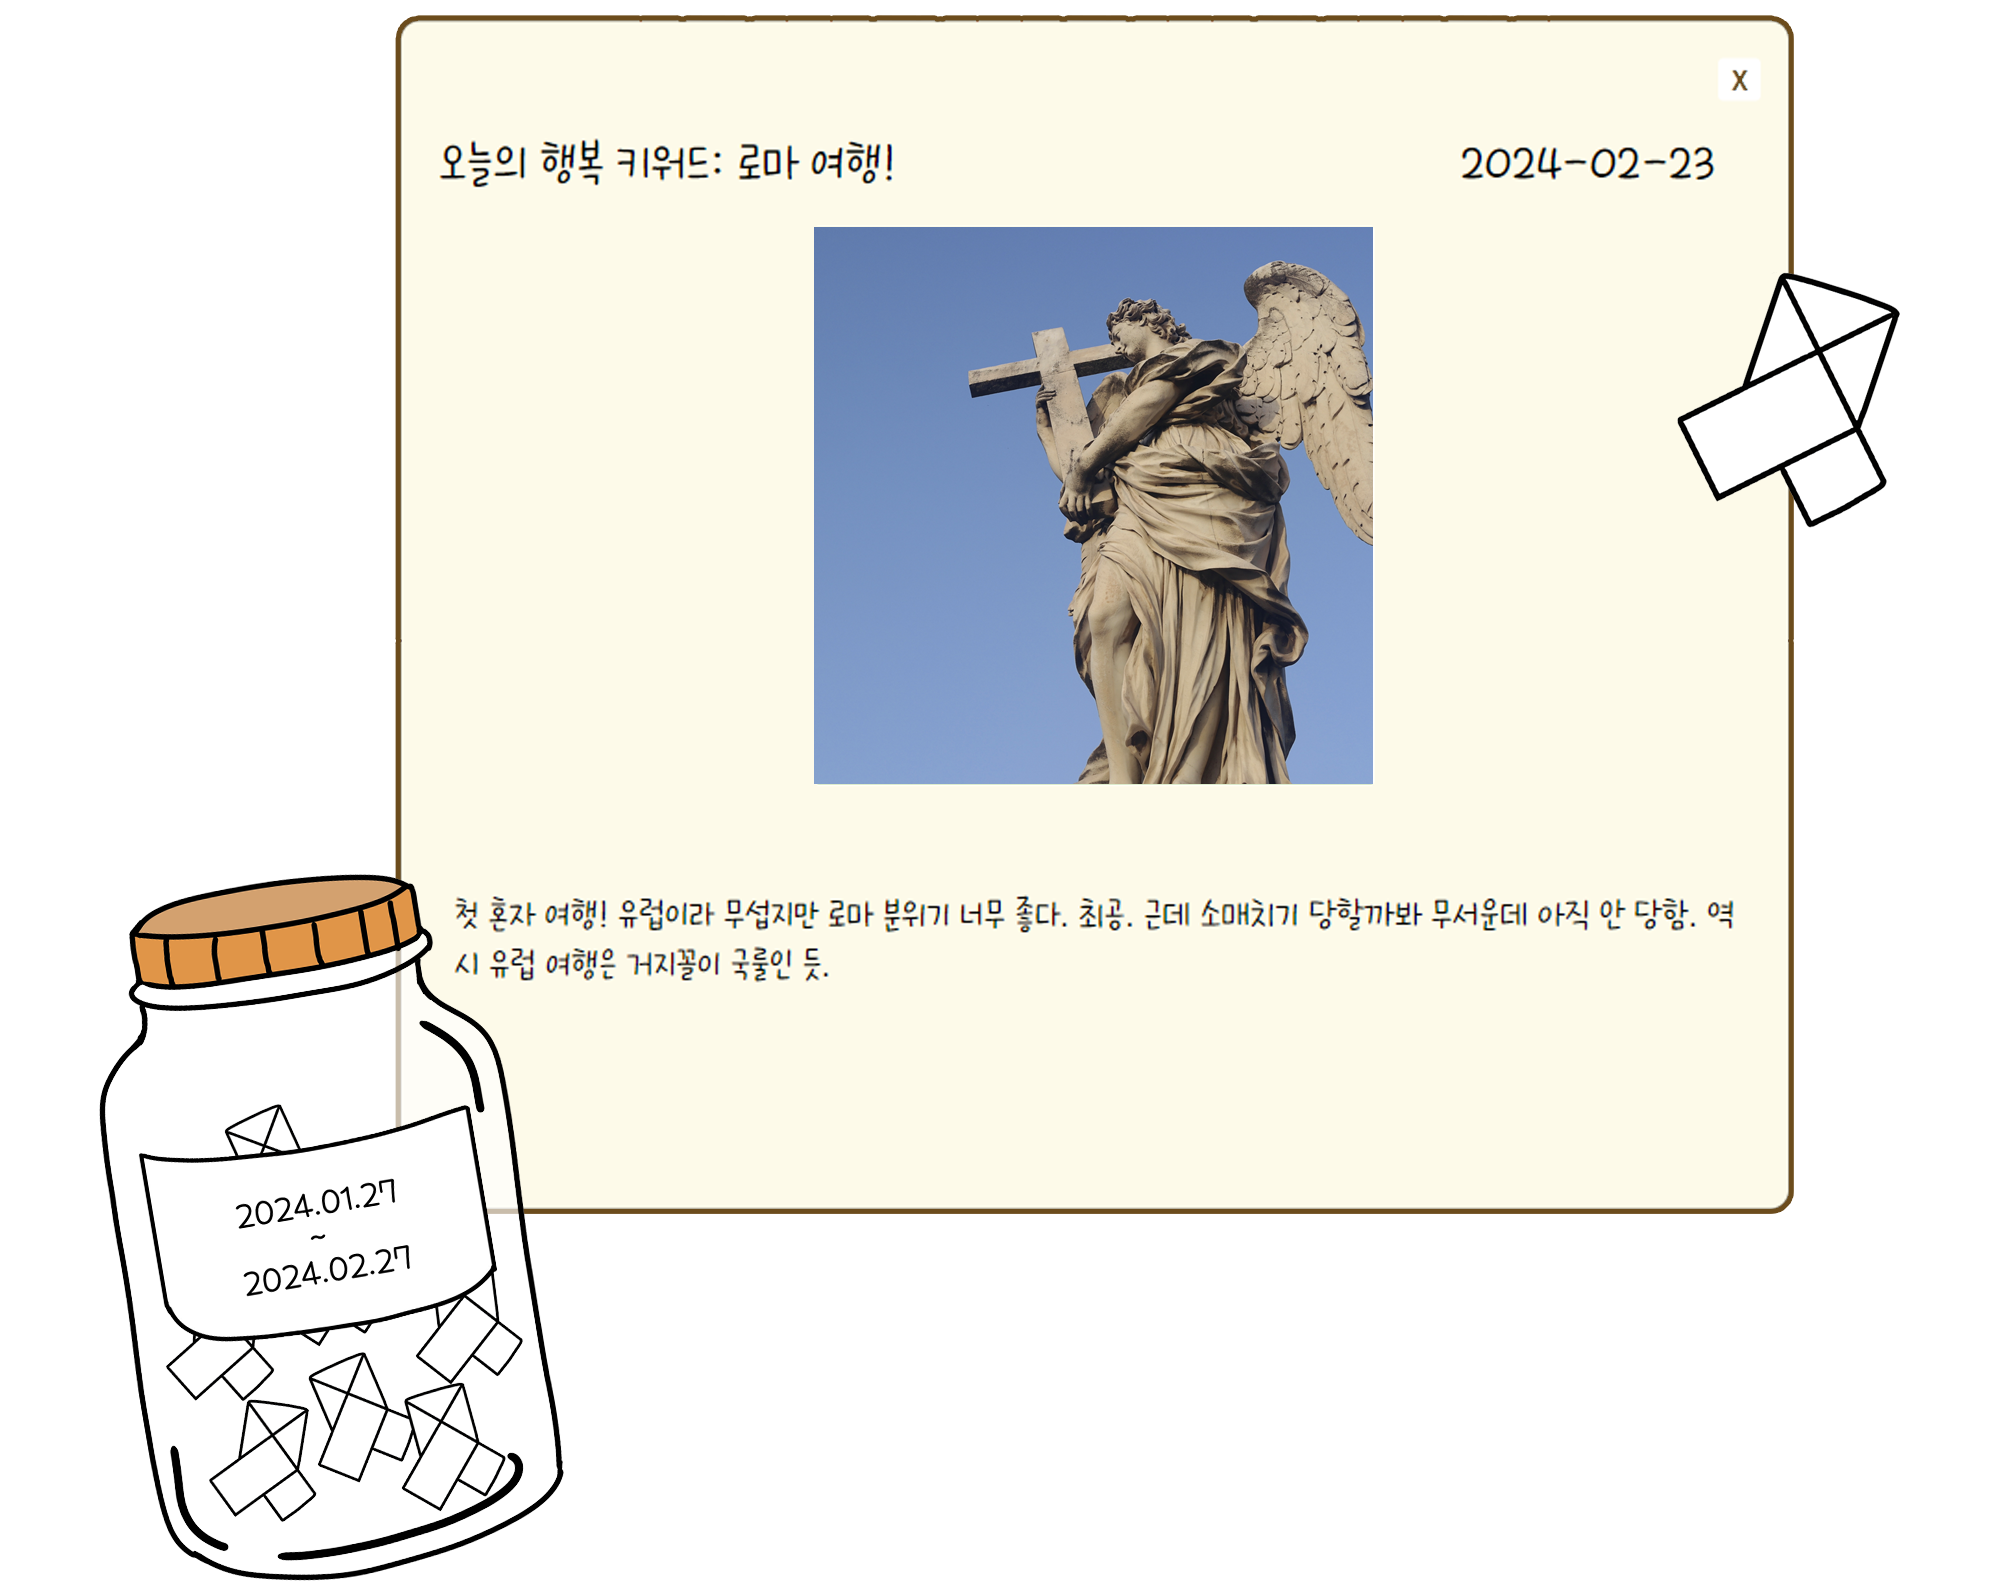
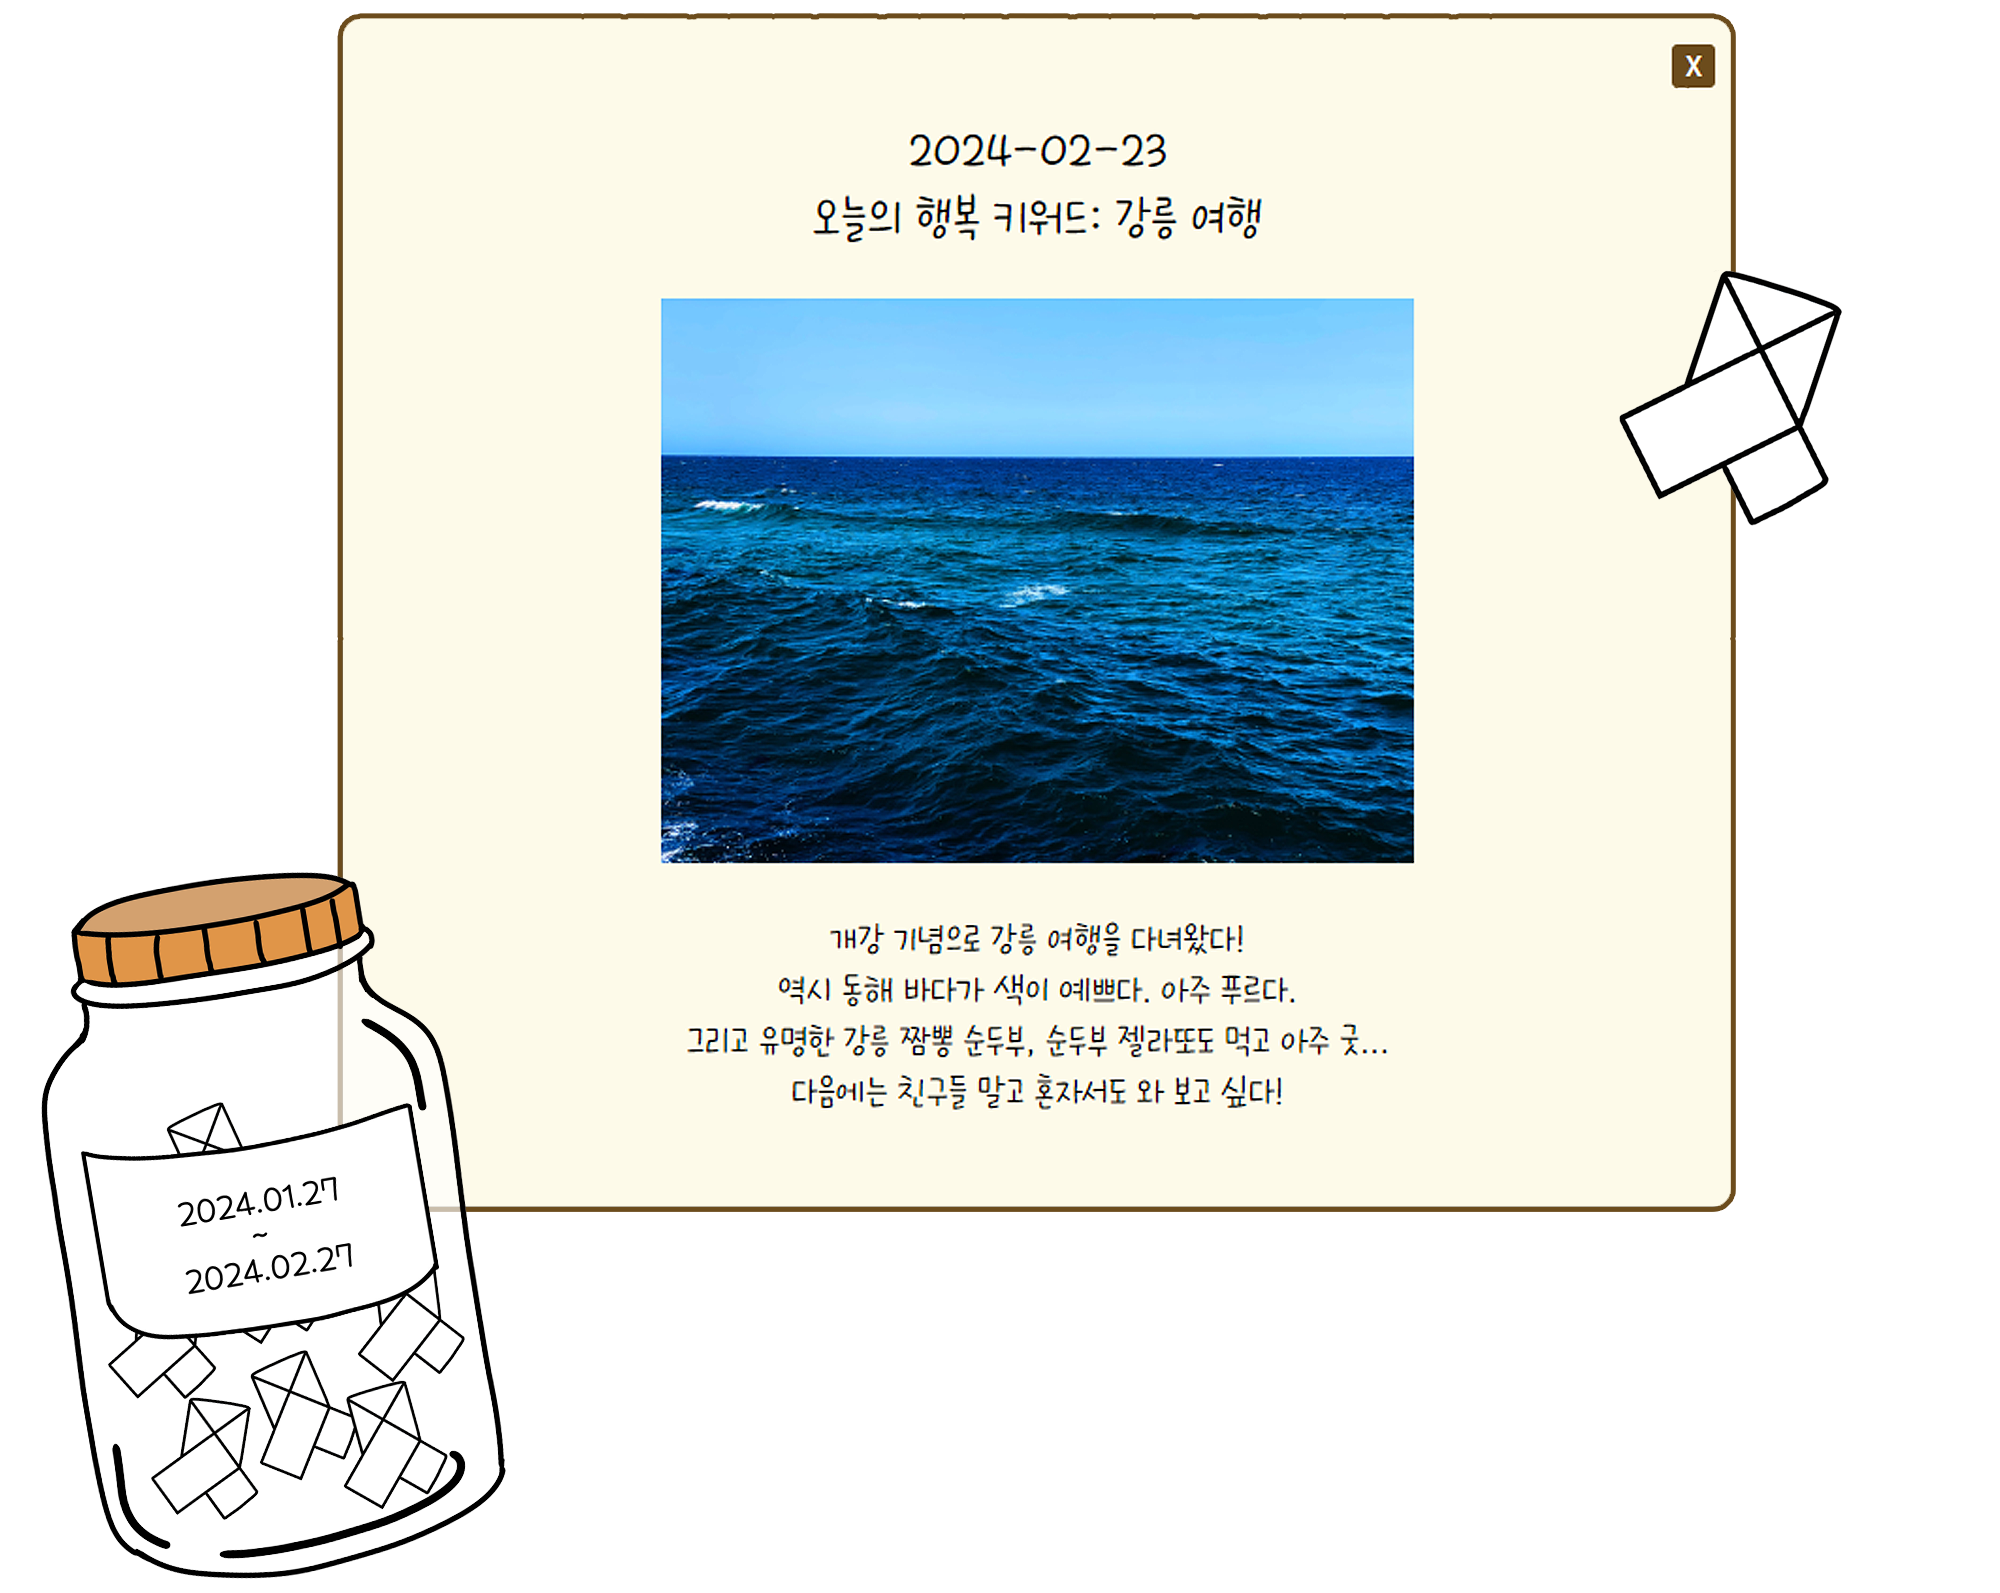
[rh] open 모달 디자인, 인덱스 수정

diff --git a/src/main/resources/static/css/jh_memo.css b/src/main/resources/static/css/jh_memo.css
@@ -116,7 +116,7 @@ cursor: pointer;
 .modal-top {
 	/* 	border: blue solid 1px; */
 	display: flex;
-	justify-content: flex-start;
+	justify-content: center;
 	flex-wrap: wrap;
 	text-align: left;
 	align-items: center;
@@ -130,6 +130,7 @@ cursor: pointer;
 	font-family: 'KNPSKkomi-Regular00';
 	font-size: 20pt;
 	width: 100%;
+	text-align: center;
 }
 
 
@@ -142,7 +143,7 @@ cursor: pointer;
 
 #modal-date-input {
 	margin-left: 0px;
-	width:200px;
+
 }
 
 .modal-img-show {
@@ -186,6 +187,7 @@ cursor: pointer;
 	resize: both;
 	background-color: transparent;
 	margin: 20px 0px 40px 0px;
+	text-align: center;
 }
 .modal-textarea > text{
 	border-bottom: 1px solid black;
